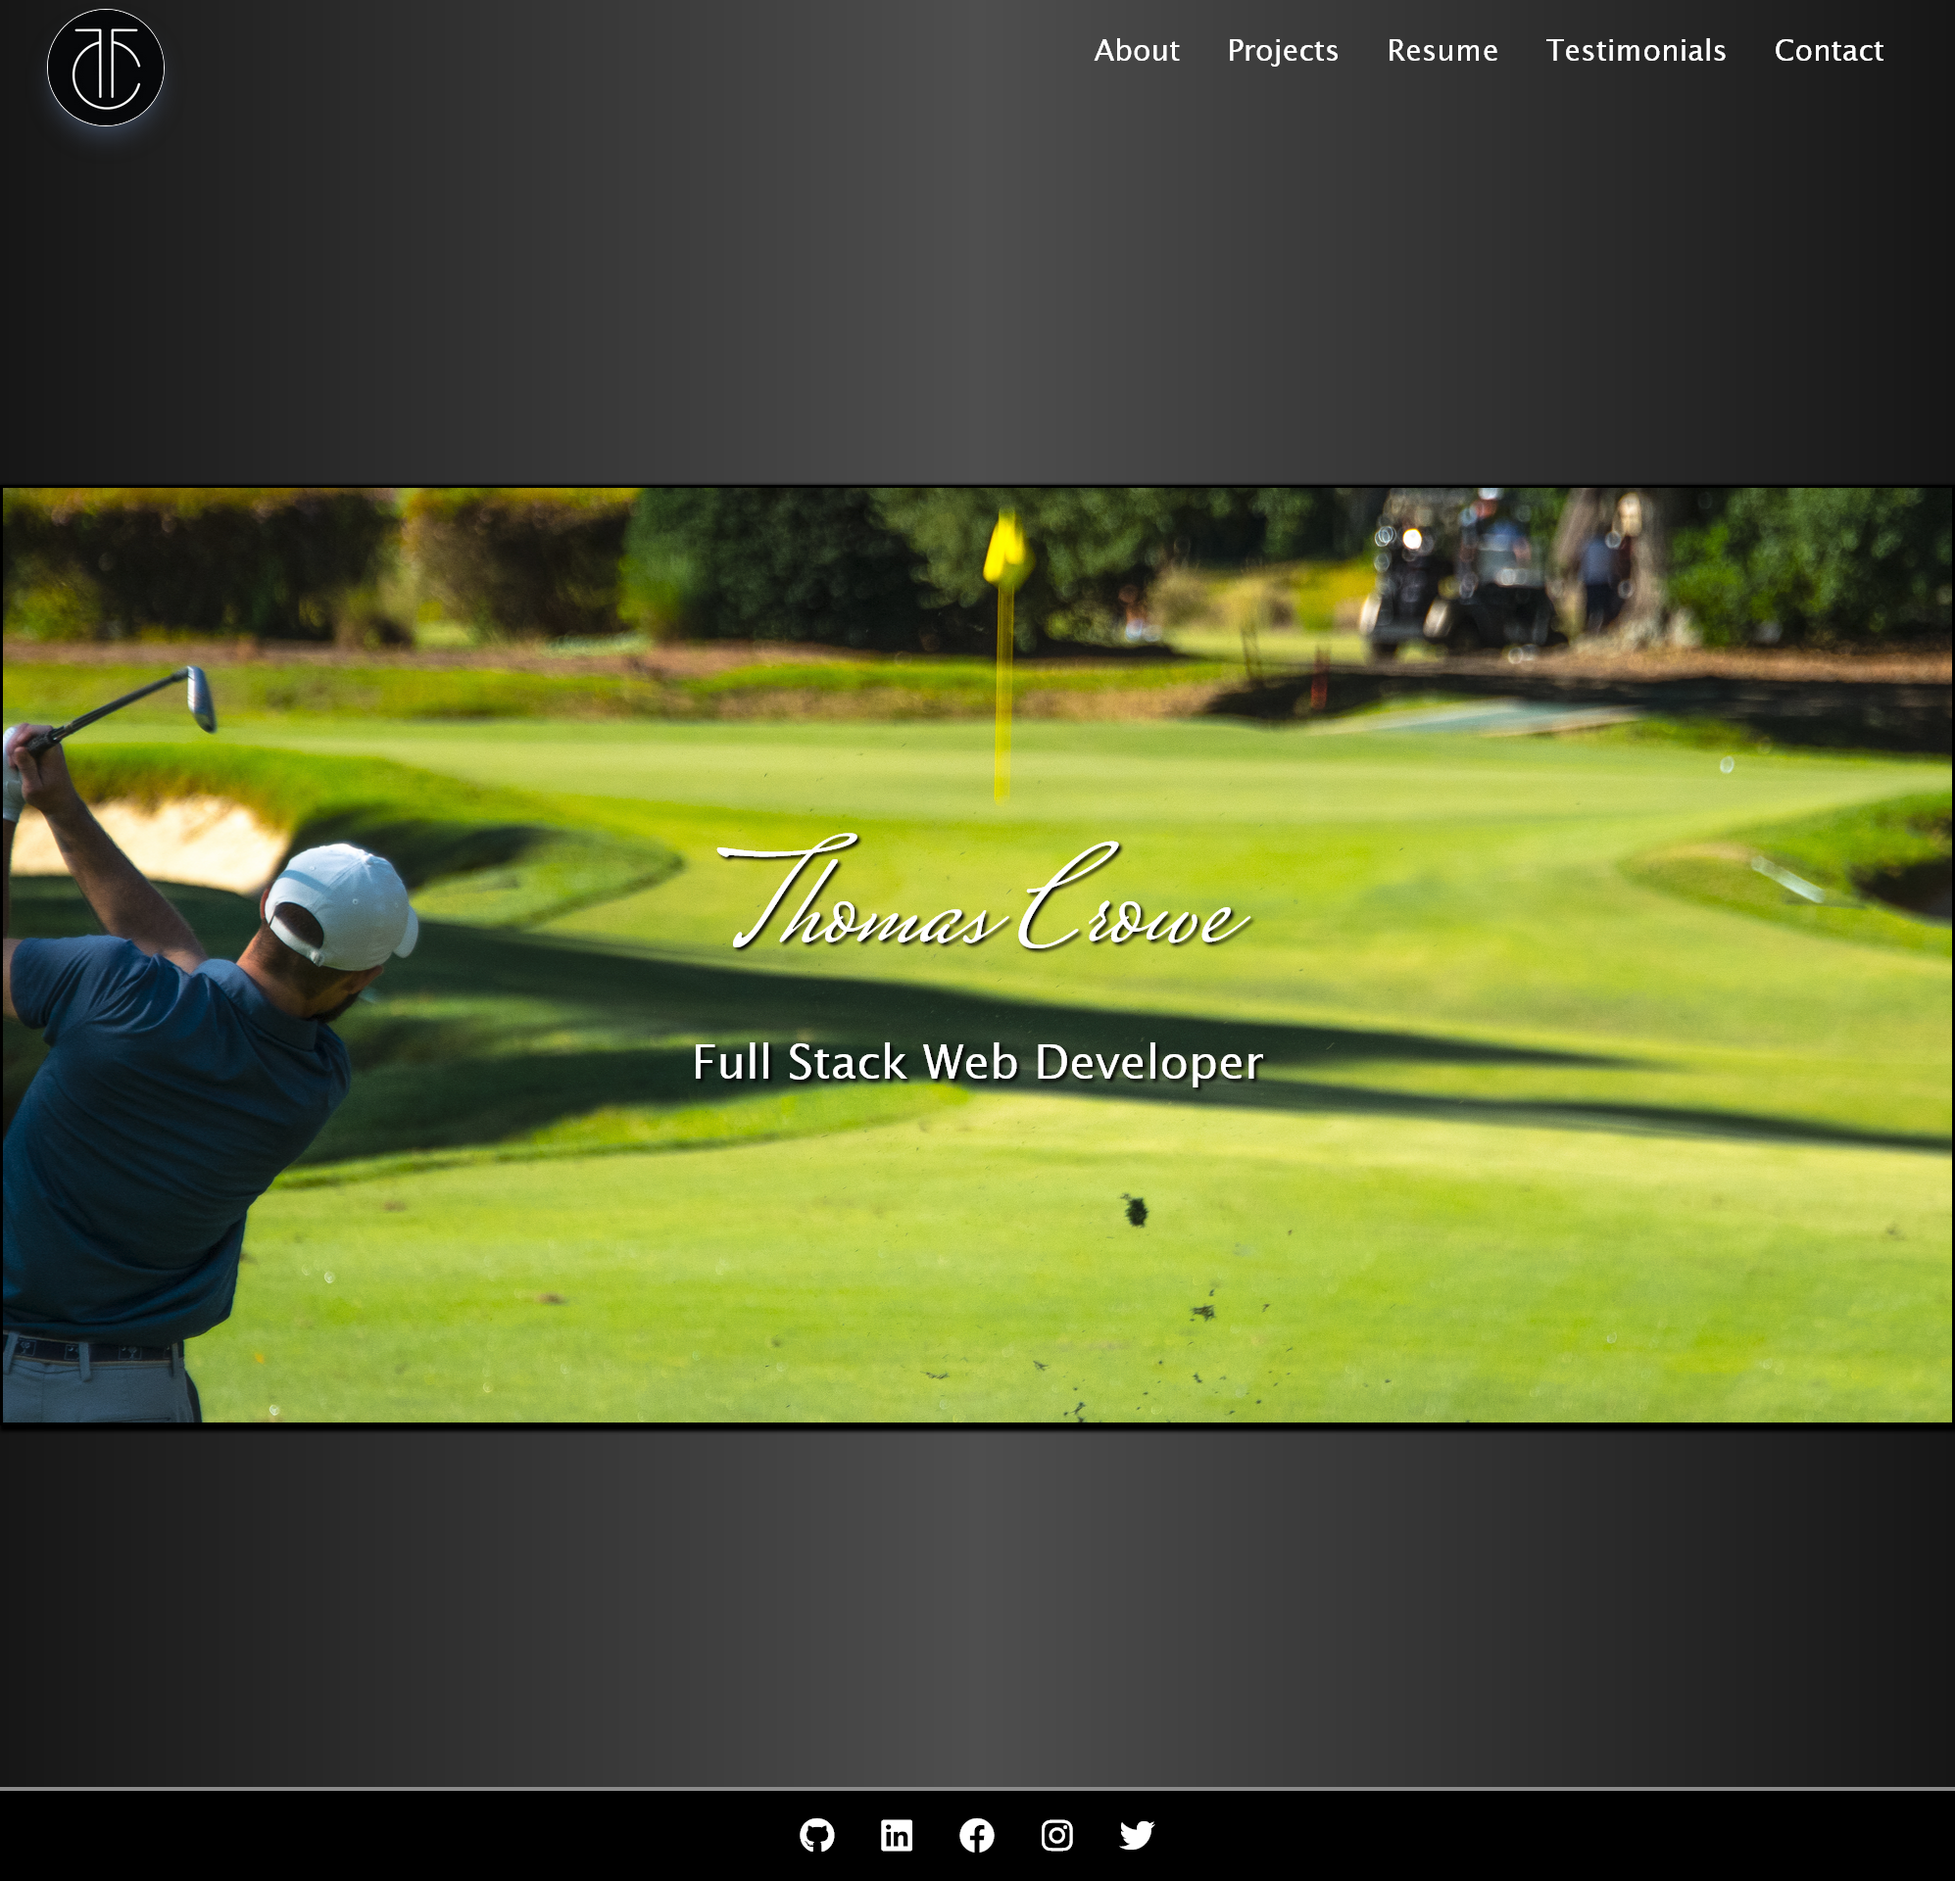
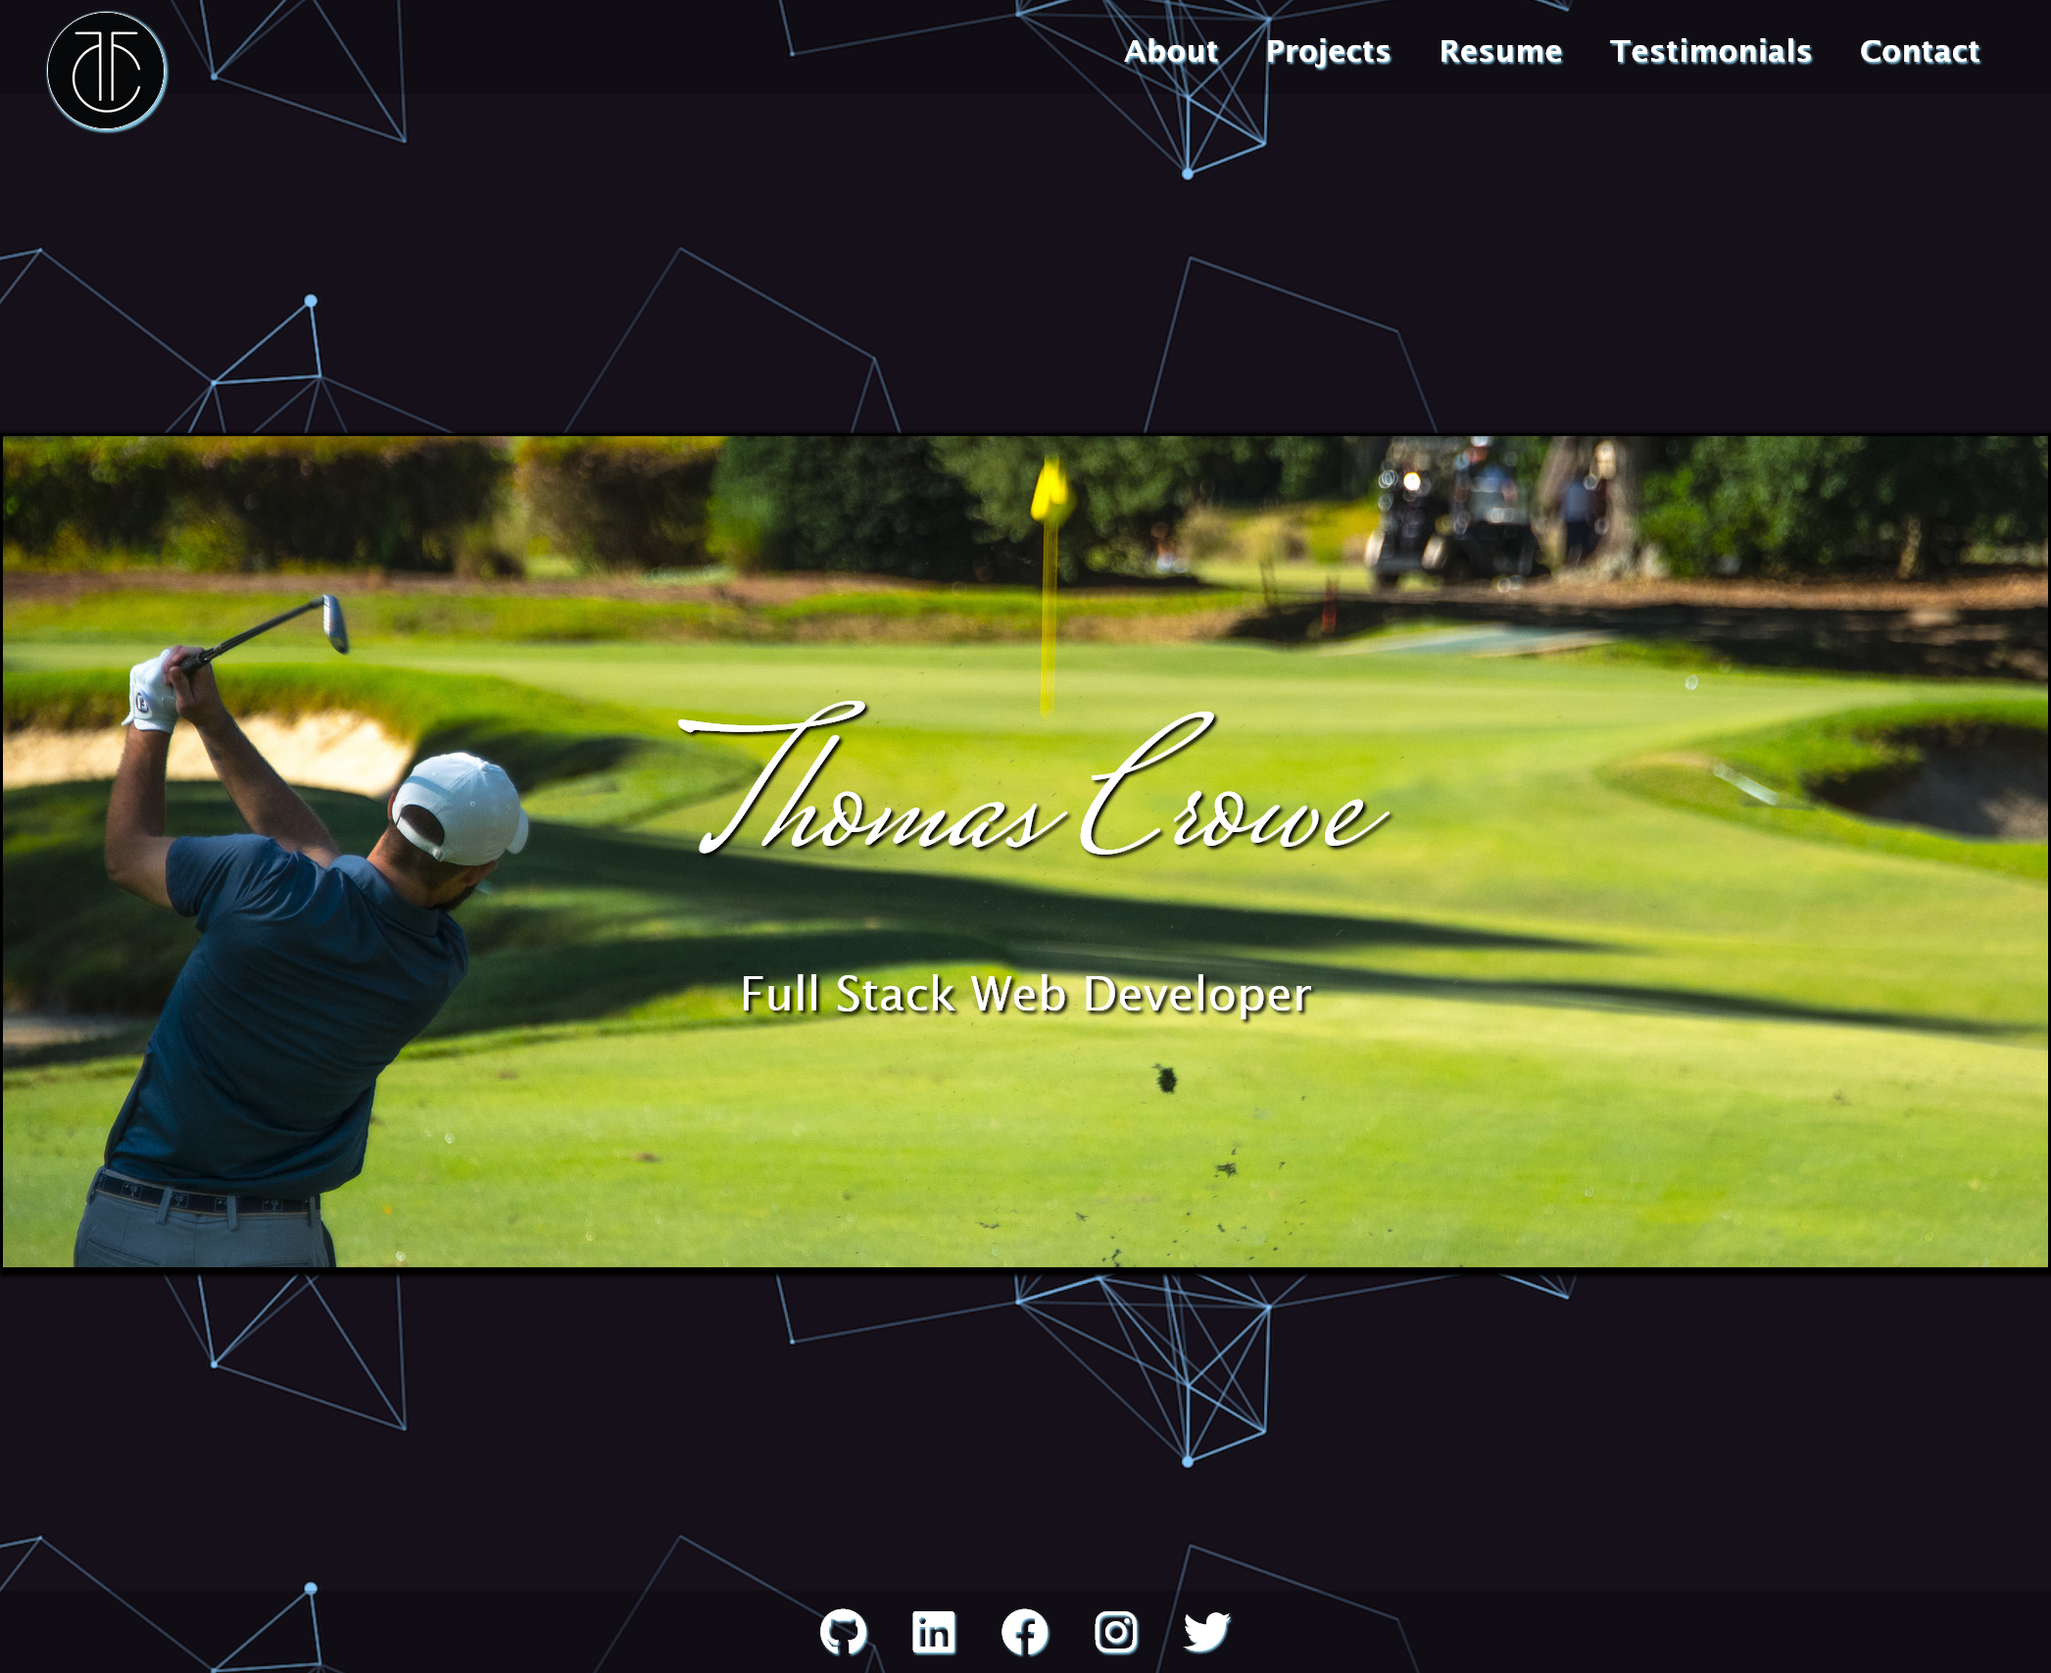
Added background image and changed theme

diff --git a/src/App.css b/src/App.css
@@ -5,8 +5,9 @@
 
 .App {
   text-align: center;
-  background-color: rgb(56, 56, 56);
-  background: linear-gradient(to right, rgb(22, 22, 22), rgb(78, 78, 78), rgb(22, 22, 22));
+  /* background-color: rgb(56, 56, 56); */
+  background: url(./assets/images/background.png) repeat center center;
+  /* background: linear-gradient(to right, rgb(22, 22, 22), rgb(78, 78, 78), rgb(22, 22, 22)); */
   min-height: 100vh;
   padding-top: 20px;
   display: flex;
@@ -19,17 +20,23 @@
   /* border-bottom: 2px solid rgb(139, 139, 139); rgb(56, 56, 56); */
   position: fixed;
   top: 0;
-  background: transparent;
+  background-color: rgba(0, 0, 0, 0.2);
+  /* background: transparent; */
   backdrop-filter: blur(10px);
   display: flex;
   justify-content: space-between;
   align-items: center;
   width: 100%;
+  z-index: 5;
 }
 
 nav {
   width: 100%;
  
+}
+
+nav img {
+  box-shadow: 1px 1px 1px 1px skyblue;
 }
 
 .links {
@@ -40,24 +47,46 @@ nav {
   align-self: flex-end;
 }
 
-.links Link {
-  margin: 0 10px;
+.links a {
   text-decoration: none;
   color: white;
-  font-size: 1.2rem;
+  font-size: 1.3rem;
   font-weight: 600;
   transition: all 0.3s ease-in-out;
+  text-shadow: skyblue 1px 1px 1px;
+  
 }
 
+.links Link {
+ 
+
+
+}
+
+.dropdown-item a {
+  color: white;
+  text-decoration: none;
+  transition: all 0.3s ease-in-out;
+  text-shadow: skyblue 1px 1px 1px;
+}
+
+.dropdown-menu {
+  margin-top: 180px;
+  background-color: rgba(0, 0, 0, 0.2);
+  backdrop-filter: blur(10px);
+}
 
 .header {
-  font-size: 3rem;
-  text-shadow: 2px 2px 2px black;
+  font-size: 6rem;
+  font-weight: 600;
+  font-family: Miss Saint Delafield;
+  text-shadow: 1px 1px 1px skyblue;
+  margin-top: 100px;
 }
 
 
 .hero-container {
-  background: url(./assets/images/golf.png) no-repeat center center;
+  background: url(./assets/images/golf.png) repeat center center;
   background-size: cover;
   border: 2px solid black;
   box-shadow: 2px 2px 2px 2px black;
@@ -76,7 +105,7 @@ nav {
 
 .hero-text h1 {
   font-family: Miss Saint Delafield;
-  font-size: 6rem;
+  font-size: 8rem;
   text-shadow: 2px 2px 2px black;
   
 }
@@ -95,7 +124,8 @@ nav {
   margin-top: 10vh;
   margin-bottom: 10vh;
   padding: 20px;
-  box-shadow: 2px 2px 2px 2px black;
+  box-shadow: 2px 2px 2px 2px skyblue;
+  backdrop-filter: blur(10px);
 }
 
 .about-sub-headers {
@@ -122,18 +152,24 @@ nav {
 }
 
 .resume-image {
-  border: 2px solid rgb(139, 139, 139);
-  box-shadow: 2px 2px 2px 2px black;
+  border: 2px solid skyblue;
+  /* box-shadow: 2px 2px 2px 2px black; */
+}
+
+.contact-content-section-text {
+  backdrop-filter: blur(10px);
 }
 
 .headshot-image{
   
-  border: 2px solid rgb(139, 139, 139);
-  box-shadow: 2px 2px 2px 2px black;
+  border: 2px solid skyblue;
+  /* box-shadow: 2px 2px 2px 2px skyblue;
+ */
 }
 
 .footer-container {
-  background-color: black;
+  background-color: rgb(0, 0, 0, 0.2);
+  
   height: 5vh;
   width: 100%;
   color: white;
@@ -142,7 +178,7 @@ nav {
   align-items: center;
   position: fixed;
   bottom: 0;
-  border-top: 3px solid rgb(139, 139, 139);
+  backdrop-filter: blur(10px);
   
 }
 
@@ -153,9 +189,10 @@ nav {
 }
 
 .footer-container ul li {
-  font-size: 1.5rem;
+  font-size: 2rem;
   list-style: none;
   margin: 0 1rem;
+  text-shadow: 1px 1px 1px skyblue;
 }
 
 @media screen and (max-width: 768px) {
@@ -192,5 +229,8 @@ nav {
   .contact-content {
     display: grid;
     grid-template-columns: 1fr;
+  }
+  .footer-container ul li {
+    font-size: 1.4rem;
   }
 }

diff --git a/src/Navbar.tsx b/src/Navbar.tsx
@@ -24,15 +24,15 @@ function Navbar(): React.ReactElement {
         <div className="navbar-container w-100">
             <nav className="flex justify-between items-center h-16 bg-transparent text-white text-xl" role="navigation">
                 <Link to="/" className="pl-8">
-                    <img className="w-20 h-20 rounded-full border border-white shadow-gray-700 shadow-lg mt-7" src={logo} alt="logo"></img>
+                    <img className="w-20 h-20 rounded-full border border-white mt-8" src={logo} alt="logo"></img>
                 </Link>
-                <div className="px-4 cursor-pointer md:hidden relative">
+                <div className="px-4 cursor-pointer md:hidden relative dropdown-container">
             
                     <svg className="w-6 h-6" fill="none" stroke="currentColor" viewBox="0 0 24 24" xmlns="http://www.w3.org/2000/svg" onClick={showDropdown}>
                         <path strokeLinecap="round" strokeLinejoin="round" strokeWidth={2} d="M4 6h16M4 12h16M4 18h16" />
                     </svg>
                 
-                    <ul className="dropdown-menu min-w-max hidden bg-black z-50 float-right py-2 list-none text-right mt-40 m-5 p-5 border-2" onClick={hideDropdown} aria-labelledby="dropdownNavigation">
+                    <ul className="dropdown-menu min-w-max hidden z-50 float-right py-2 list-none text-right" onClick={hideDropdown} aria-labelledby="dropdownNavigation">
                         <li className="dropdown-item m-3">
                             <Link to="/about" className="p-4">
                                 About

diff --git a/src/Contact.tsx b/src/Contact.tsx
@@ -6,16 +6,16 @@ function Contact(): React.ReactElement {
         <div className="contact-container mt-10">
             <h1 className="text-white text-3xl m-20 header">Contact</h1>
             <div className="contact-content grid grid-cols-2 row-auto m-20 p-10">
-                <div className="col-span-1 contact-content-section">
+                <div className="col-span-1 contact-content-section-text">
                    <ul>
                         <li>
-                            <h2 className="text-white text-2xl">Email: <a href="*">wcrowe@g.clemson.edu</a></h2>
+                            <h2 className="text-white text-3xl">Email: <a href="*">wcrowe@g.clemson.edu</a></h2>
                         </li>
                         <li>
-                            <h2 className="text-white text-2xl">Phone: (864) 630-3512</h2>
+                            <h2 className="text-white text-3xl">Phone: (864) 630-3512</h2>
                         </li>
                         <li>
-                            <h2 className="text-white text-2xl">LinkedIn: <a href="https://www.linkedin.com/in/wthomascrowe">wthomascrowe</a></h2>
+                            <h2 className="text-white text-3xl">LinkedIn: <a href="https://www.linkedin.com/in/wthomascrowe">wthomascrowe</a></h2>
                         </li>
                     </ul>
                 </div>

diff --git a/src/Resume.tsx b/src/Resume.tsx
@@ -3,7 +3,7 @@ import resume from "./assets/images/TechResume.jpg";
 
 function Resume(): React.ReactElement {
     return (
-        <div className="resume-container flex-col justify-center align-center m-auto mt-20">
+        <div className="resume-container flex-col justify-center align-center m-auto mt-10">
             <h1 className="text-white text-3xl m-10 header">Resume</h1>
             {/* put a link to download the resume pdf here */}
             <a className='text-white m-10' href="/" download='./assets/TechResume.pdf'>Download Resume</a>

diff --git a/src/About.tsx b/src/About.tsx
@@ -52,8 +52,8 @@ function About(): React.ReactElement {
                             <li>HTML</li>
                             <li>CSS</li>
                             <li>SCSS</li>
-                            <li>JavaScrih3t</li>
-                            <li>Tyh3eScript</li>
+                            <li>JavaScript</li>
+                            <li>TypeScript</li>
                             <li>Python</li>
                             <li>Django</li>
                             <li>React</li>

diff --git a/src/App.tsx b/src/App.tsx
@@ -33,7 +33,7 @@ function App(): React.ReactElement {
     <>  
     {loading ? (
         
-        <div className="loading-spinner flex justify-center align-middle items-center">
+        <div className="loading-spinner flex justify-center align-center items-center m-auto">
           <Circles height='150' width='150' color='black'ariaLabel="circles-loading" />
         </div>
       

diff --git a/src/Footer.tsx b/src/Footer.tsx
@@ -1,7 +1,6 @@
 import React from 'react';
 
 function Footer() {
-    //create a footer with social icons
     return (
         <div className="footer-container p-6">
             <ul>
